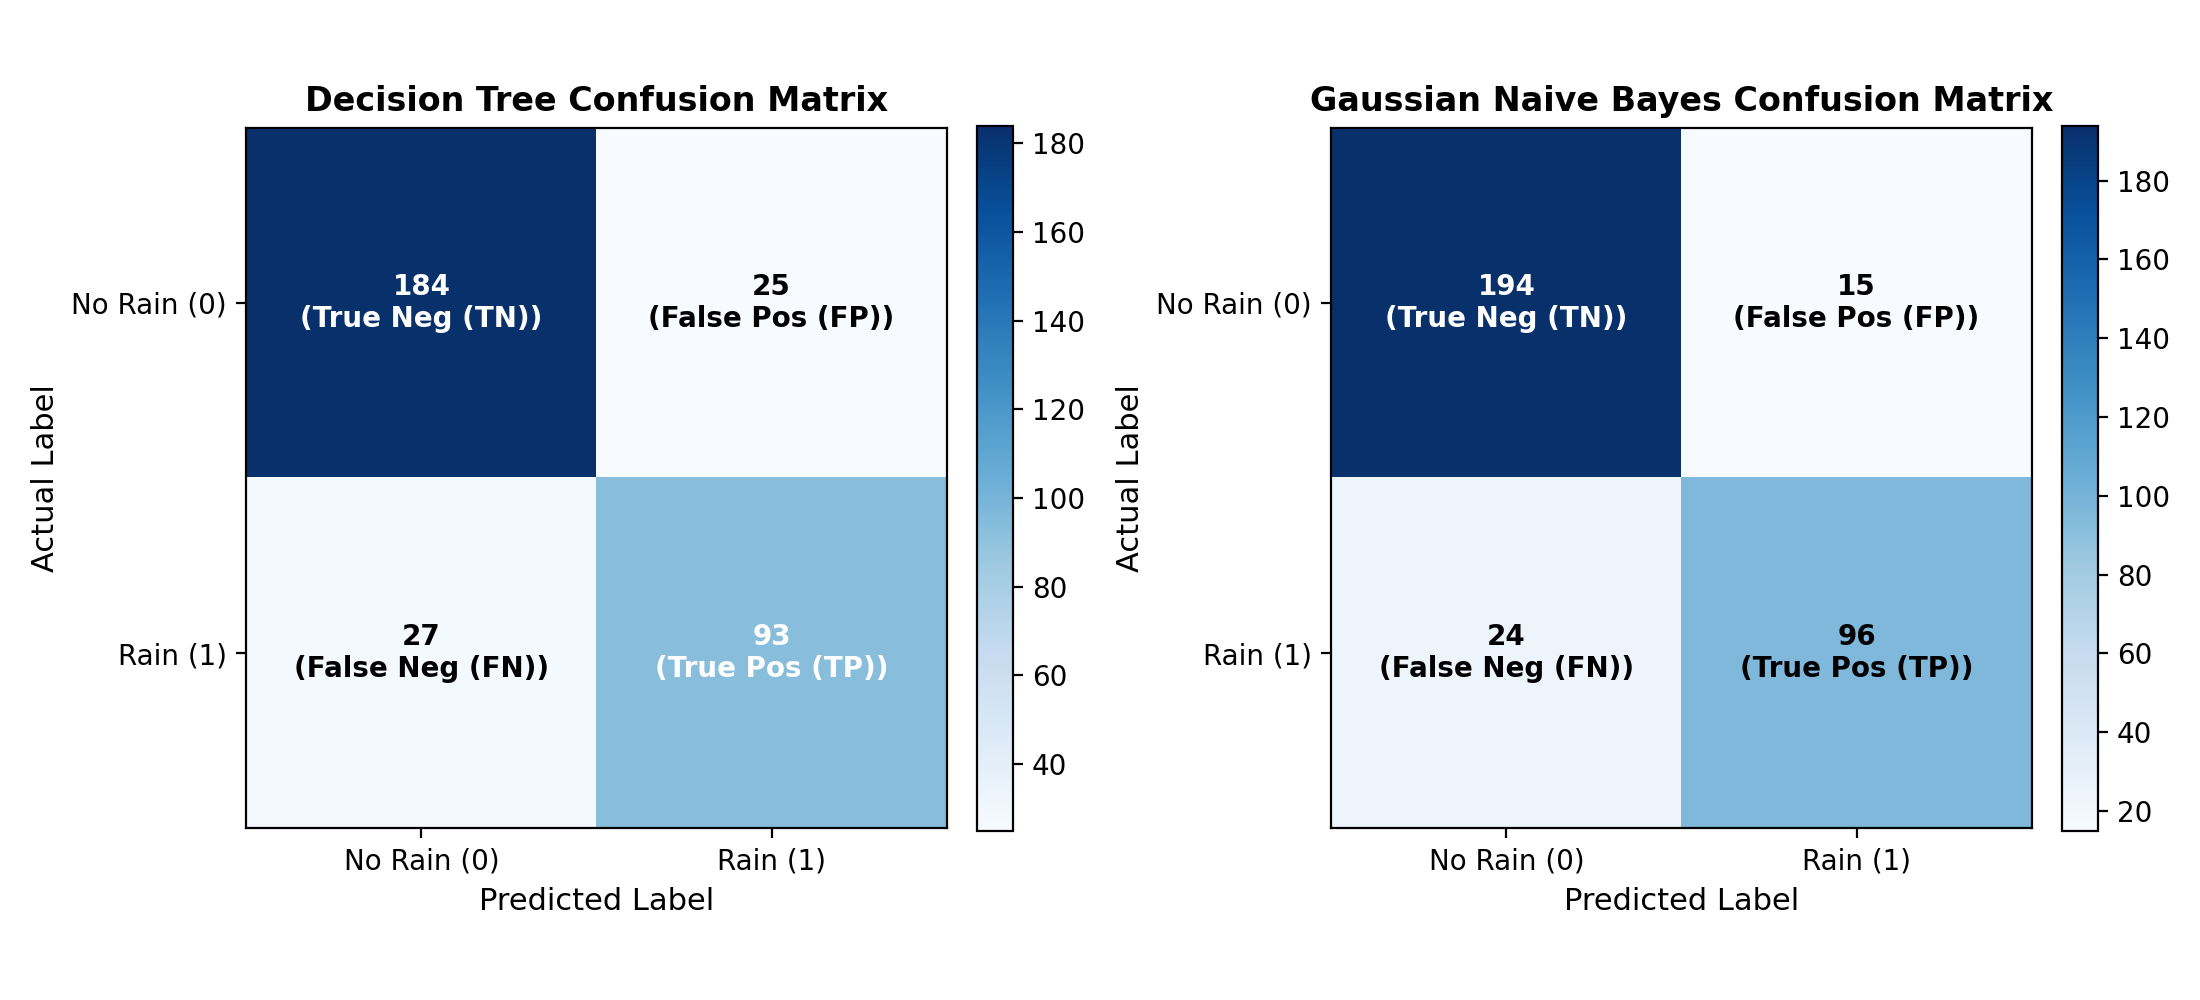
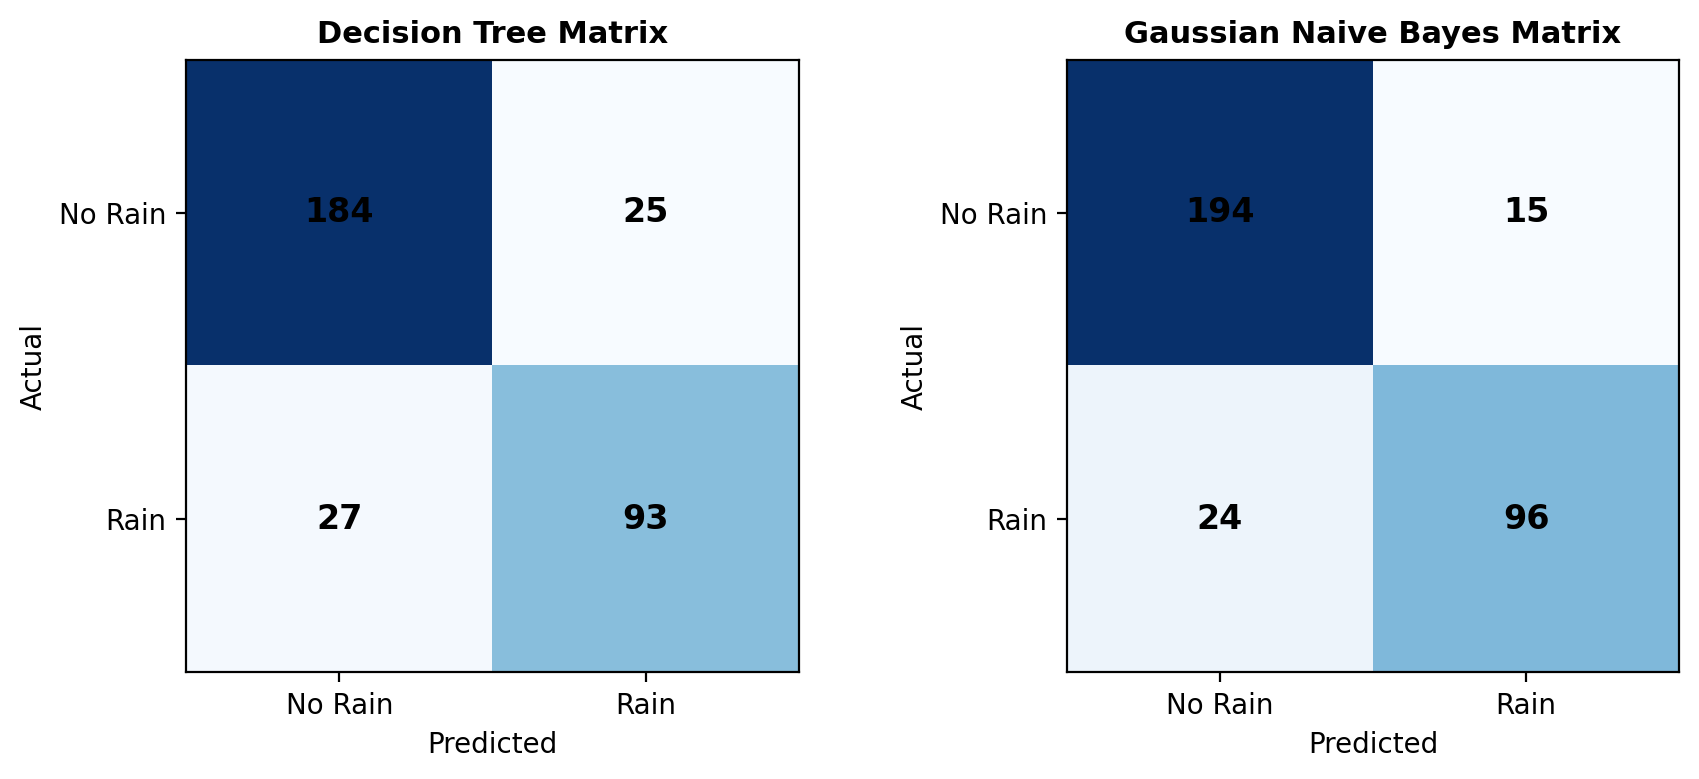
Simplify visualization code for clean readability and viva presentation

Changed region(s): [[0.0312, 0.0308, 0.5615, 0.9859], [0.5303, 0.0308, 0.9982, 0.9859], [0.0, 0.4005, 0.0312, 0.5854]]

diff --git a/visualization.py b/visualization.py
@@ -1,11 +1,8 @@
 """
 visualization.py
 ----------------
-Module for visualizing historical weather data, model comparisons, and
-confusion matrices using Matplotlib ONLY (strictly complying with lab restrictions).
-
-Part of: Weather Prediction Using Data Mining Techniques
-Lab: Data Mining and Warehousing Lab (CSAD2500)
+Simple, clean Matplotlib visualizations for the Weather Prediction project.
+Adheres strictly to Data Mining Lab (CSAD2500) requirements.
 """
 
 import os
@@ -14,156 +11,119 @@ import numpy as np
 import pandas as pd
 
 
+def _finish_plot(show: bool = True, save_path: str = None):
+    """Helper to save and optionally display a plot."""
+    if save_path:
+        os.makedirs(os.path.dirname(os.path.abspath(save_path)), exist_ok=True)
+        plt.savefig(save_path, dpi=200, bbox_inches="tight")
+        print(f"[Plot Saved] {save_path}")
+    if show:
+        plt.show()
+    plt.close()
+
+
 def plot_model_comparison(results: dict, show: bool = True, save_path: str = None):
     """
-    Plots a grouped bar chart comparing Decision Tree and Gaussian Naive Bayes
-    on Accuracy and Rainy-Class Recall.
+    Plots a simple bar chart comparing Decision Tree and Naive Bayes
+    on Accuracy and Rain Recall.
     """
     dt_m = results["metrics"]["Decision Tree"]
     nb_m = results["metrics"]["Gaussian Naive Bayes"]
 
     models = ["Decision Tree", "Gaussian Naive Bayes"]
-    accuracy_scores = [dt_m["accuracy"] * 100, nb_m["accuracy"] * 100]
-    recall_scores = [dt_m["rain_recall"] * 100, nb_m["rain_recall"] * 100]
+    accuracies = [dt_m["accuracy"] * 100, nb_m["accuracy"] * 100]
+    recalls = [dt_m["rain_recall"] * 100, nb_m["rain_recall"] * 100]
 
     x = np.arange(len(models))
-    width = 0.32
+    width = 0.35
 
-    fig, ax = plt.subplots(figsize=(8, 5))
-    rects1 = ax.bar(x - width / 2, accuracy_scores, width, label="Overall Accuracy (%)", color="#2ecc71", edgecolor="black")
-    rects2 = ax.bar(x + width / 2, recall_scores, width, label="Rainy-Class Recall (%)", color="#e67e22", edgecolor="black")
+    plt.figure(figsize=(7, 4.5))
+    plt.bar(x - width / 2, accuracies, width, label="Accuracy (%)", color="#3498db")
+    plt.bar(x + width / 2, recalls, width, label="Rain Recall (%)", color="#e67e22")
 
-    for rect in rects1:
-        h = rect.get_height()
-        ax.annotate(f"{h:.1f}%", xy=(rect.get_x() + rect.get_width() / 2, h),
-                    xytext=(0, 4), textcoords="offset points", ha="center", va="bottom", fontweight="bold")
+    plt.title("Model Performance Comparison", fontsize=12, fontweight="bold")
+    plt.xticks(x, models, fontsize=10)
+    plt.ylabel("Score (%)")
+    plt.ylim(0, 105)
+    plt.legend()
+    plt.grid(axis="y", linestyle="--", alpha=0.5)
 
-    for rect in rects2:
-        h = rect.get_height()
-        ax.annotate(f"{h:.1f}%", xy=(rect.get_x() + rect.get_width() / 2, h),
-                    xytext=(0, 4), textcoords="offset points", ha="center", va="bottom", fontweight="bold")
-
-    ax.set_title("ML Model Performance Comparison", fontsize=13, fontweight="bold")
-    ax.set_xticks(x)
-    ax.set_xticklabels(models, fontsize=11, fontweight="bold")
-    ax.set_ylabel("Score (%)", fontsize=11)
-    ax.set_ylim(0, 110)
-    ax.legend(loc="upper right", fontsize=10)
-    ax.grid(axis="y", linestyle="--", alpha=0.7)
+    # Add score text on top of bars
+    for i in range(len(models)):
+        plt.text(x[i] - width / 2, accuracies[i] + 1.5, f"{accuracies[i]:.1f}%", ha="center", fontsize=9)
+        plt.text(x[i] + width / 2, recalls[i] + 1.5, f"{recalls[i]:.1f}%", ha="center", fontsize=9)
 
     plt.tight_layout()
-    if save_path:
-        plt.savefig(save_path, dpi=200)
-        print(f"[Plot Saved] {save_path}")
-    if show:
-        plt.show()
-    plt.close()
+    _finish_plot(show, save_path)
 
 
 def plot_confusion_matrices(results: dict, show: bool = True, save_path: str = None):
     """
-    Plots side-by-side Confusion Matrices for Decision Tree and Gaussian Naive Bayes
-    using Matplotlib imshow and text annotations.
+    Plots side-by-side Confusion Matrices for Decision Tree and Naive Bayes.
     """
     dt_cm = results["metrics"]["Decision Tree"]["confusion_matrix"]
     nb_cm = results["metrics"]["Gaussian Naive Bayes"]["confusion_matrix"]
 
-    fig, axes = plt.subplots(1, 2, figsize=(11, 5))
-    cms = [("Decision Tree", dt_cm), ("Gaussian Naive Bayes", nb_cm)]
-    classes = ["No Rain (0)", "Rain (1)"]
+    fig, (ax1, ax2) = plt.subplots(1, 2, figsize=(9, 4))
+    cms = [(ax1, "Decision Tree", dt_cm), (ax2, "Gaussian Naive Bayes", nb_cm)]
 
-    for ax, (title, cm) in zip(axes, cms):
-        cax = ax.imshow(cm, interpolation="nearest", cmap="Blues")
-        ax.set_title(f"{title} Confusion Matrix", fontsize=12, fontweight="bold")
-        fig.colorbar(cax, ax=ax, fraction=0.046, pad=0.04)
+    for ax, name, cm in cms:
+        ax.imshow(cm, cmap="Blues")
+        ax.set_title(f"{name} Matrix", fontsize=11, fontweight="bold")
+        ax.set_xticks([0, 1])
+        ax.set_xticklabels(["No Rain", "Rain"])
+        ax.set_yticks([0, 1])
+        ax.set_yticklabels(["No Rain", "Rain"])
+        ax.set_xlabel("Predicted")
+        ax.set_ylabel("Actual")
 
-        tick_marks = np.arange(len(classes))
-        ax.set_xticks(tick_marks)
-        ax.set_xticklabels(classes, fontsize=10)
-        ax.set_yticks(tick_marks)
-        ax.set_yticklabels(classes, fontsize=10)
-
-        # Annotate cells with TN, FP, FN, TP labels and counts
-        tag_map = [["True Neg (TN)", "False Pos (FP)"], ["False Neg (FN)", "True Pos (TP)"]]
-        thresh = cm.max() / 2.0
-        for i in range(cm.shape[0]):
-            for j in range(cm.shape[1]):
-                color = "white" if cm[i, j] > thresh else "black"
-                ax.text(
-                    j, i, f"{cm[i, j]}\n({tag_map[i][j]})",
-                    ha="center", va="center",
-                    color=color, fontsize=10, fontweight="bold"
-                )
-
-        ax.set_xlabel("Predicted Label", fontsize=11)
-        ax.set_ylabel("Actual Label", fontsize=11)
+        # Put numbers in matrix cells
+        for i in range(2):
+            for j in range(2):
+                ax.text(j, i, str(cm[i, j]), ha="center", va="center", fontsize=12, fontweight="bold")
 
     plt.tight_layout()
-    if save_path:
-        plt.savefig(save_path, dpi=200)
-        print(f"[Plot Saved] {save_path}")
-    if show:
-        plt.show()
-    plt.close()
+    _finish_plot(show, save_path)
 
 
 def plot_historical_trends(df: pd.DataFrame, show: bool = True, save_path: str = None):
     """
-    Plots monthly historical weather trends (Average Temperature and Monthly Rainfall)
-    over the 3-year record period.
+    Plots monthly average temperature and total rainfall over time.
     """
     df_copy = df.copy()
-    if "date" in df_copy.columns:
-        df_copy["date"] = pd.to_datetime(df_copy["date"])
-        df_copy.set_index("date", inplace=True)
-    else:
+    if "date" not in df_copy.columns:
         return
 
-    # Monthly aggregation (compatible with pandas < 2.2 'M' and >= 2.2 'ME')
-    freq = "ME"
-    try:
-        monthly = df_copy.resample("ME").agg({
-            "temperature_c": "mean",
-            "precipitation_mm": "sum" if "precipitation_mm" in df_copy.columns else "count"
-        })
-    except (ValueError, KeyError):
-        monthly = df_copy.resample("M").agg({
-            "temperature_c": "mean",
-            "precipitation_mm": "sum" if "precipitation_mm" in df_copy.columns else "count"
-        })
+    df_copy["date"] = pd.to_datetime(df_copy["date"])
+    monthly = df_copy.groupby(df_copy["date"].dt.to_period("M")).mean(numeric_only=True)
+    months = monthly.index.astype(str)
 
-    fig, ax1 = plt.subplots(figsize=(12, 5))
+    fig, (ax1, ax2) = plt.subplots(2, 1, figsize=(10, 6), sharex=True)
 
-    color_temp = "#e74c3c"
-    ax1.set_xlabel("Timeline (Month)", fontsize=11)
-    ax1.set_ylabel("Mean Temperature (°C)", color=color_temp, fontsize=11)
-    line1 = ax1.plot(monthly.index, monthly["temperature_c"], color=color_temp, marker="o", linewidth=2, label="Mean Temp (°C)")
-    ax1.tick_params(axis="y", labelcolor=color_temp)
+    # 1. Temperature Trend
+    ax1.plot(months, monthly["temperature_c"], color="#e74c3c", marker="o", linewidth=2)
+    ax1.set_ylabel("Avg Temp (°C)")
+    ax1.set_title("Historical Weather Trends in Delhi (Monthly)", fontsize=12, fontweight="bold")
+    ax1.grid(True, linestyle="--", alpha=0.5)
 
-    ax2 = ax1.twinx()
-    color_rain = "#2980b9"
-    ax2.set_ylabel("Total Precipitation (mm)", color=color_rain, fontsize=11)
-    line2 = ax2.bar(monthly.index, monthly["precipitation_mm"], width=15, alpha=0.4, color=color_rain, label="Total Rain (mm)")
-    ax2.tick_params(axis="y", labelcolor=color_rain)
+    # 2. Rainfall Trend
+    if "precipitation_mm" in df_copy.columns:
+        monthly_rain = df_copy.groupby(df_copy["date"].dt.to_period("M"))["precipitation_mm"].sum()
+        ax2.bar(months, monthly_rain, color="#3498db", alpha=0.7)
+        ax2.set_ylabel("Total Rain (mm)")
+    ax2.set_xlabel("Month")
+    ax2.grid(True, linestyle="--", alpha=0.5)
+    plt.xticks(rotation=45, ha="right", fontsize=9)
 
-    plt.title("Historical Weather Trends in Delhi (2023–2025)", fontsize=13, fontweight="bold")
-    fig.tight_layout()
-
-    if save_path:
-        plt.savefig(save_path, dpi=200)
-        print(f"[Plot Saved] {save_path}")
-    if show:
-        plt.show()
-    plt.close()
+    plt.tight_layout()
+    _finish_plot(show, save_path)
 
 
 def plot_all_visualizations(df: pd.DataFrame, results: dict, show: bool = True, save_dir: str = None):
     """
-    Generates and displays all key plots sequentially.
+    Generates and saves all visualizations.
     """
     print("\n[Visualizations] Generating Matplotlib charts...")
-    os.makedirs(save_dir, exist_ok=True) if save_dir else None
-
     p1 = os.path.join(save_dir, "model_comparison.png") if save_dir else None
     p2 = os.path.join(save_dir, "confusion_matrices.png") if save_dir else None
     p3 = os.path.join(save_dir, "historical_trends.png") if save_dir else None
